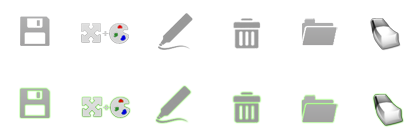
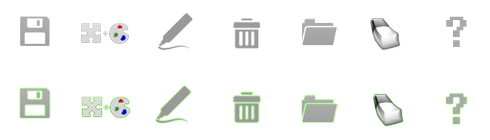
ajout bouton help
git-svn-id: https://dev.isen.fr/svn/cir2/2011-2012/project/group12@203 d59c32fe-f752-4fa7-acd5-9dba6884753f

diff --git a/main.html b/main.html
@@ -61,9 +61,10 @@
 					<div class="button colorChooser red" id="red"> </div>
 					<div class="button colorChooser green" id="green"> </div>
 					<div class="button colorChooser blue" id="blue"> </div>
+					<div class="button toolChooser help" id="help">Help</div>
 				</div>	
 			</div>
-			<div id="main-container-tests" class="hidden">lolnd,ednednzrzjkrjeeed,ednednzrzjkrjeeed,ednednzrzjkrjeeed,ednednzrzjkrjeeed,ednednzrzjkrjeeed,ednednzrzjkrjeeed,ednednzrzjkrjeeed,ednednzrzjkrjeee</div>
+			<div id="main-container-tests" class="hidden"></div>
 
 			<div id="save-form" class="modal-dialog" title="Save a New Graph">
 				<font class="validateTips">If the graph with entered name already exist, there will be replaced by the new Graph.</font>
@@ -77,6 +78,7 @@
 			</div>
 
 			<div id="load-form" class="modal-dialog" title="Load a Graph"></div>
+			<div id="help-modal" class="modal-dialog" title="Help - How to use HackenBush ?"></div>
 		</div>
 	</div>
 	<div id="main-bottom">
@@ -138,7 +140,7 @@
 	<script type ="text/javascript" src ="./scripts/javascript/interface/controller/listenToEditionField.js"></script>
 
 	<script type ="text/javascript" src ="./scripts/javascript/interface/controller/formChecks.js"></script>
-	<script type ="text/javascript" src ="./scripts/javascript/interface/controller/listenToModalDialog.js"></script>
+	<script type ="text/javascript" src ="./scripts/javascript/interface/view/modalDialog.js"></script>
 
 </body>
 </html>

diff --git a/css/button.css b/css/button.css
@@ -5,16 +5,19 @@
     text-align: center;
 }
 
-.options {
+.options , .help{
     position: absolute;
     top: 631px;
+    z-index: 1;
+}
+
+.options {
     left: 68px;
     line-height: 10px;
     width: 150px;
     height: 92px;
     margin: 0px;
     padding: 5px 0px 0px 5px;
-    z-index: 1;
     float: left;
     clear: none;
     text-align: left;
@@ -33,7 +36,7 @@
     line-height: 107px;
 }
 
-.options, .button.toolChooser, .locked {
+.options, .help, .button.toolChooser, .locked {
     background-color: #f0f1f4;
 }
 
@@ -49,7 +52,7 @@
     color : #d3bebe;
 }
 
-.button.toolChooser, #main-left .locked {
+.button.toolChooser, #main-left .locked, .help {
     background-image: url(../ressources/images/toolChooser.png);
 }
 
@@ -99,6 +102,14 @@
 
 .no-lock #erase:hover {
     background-position:-350px 56px;
+}
+
+#help {
+    background-position:-422px -7px;
+}
+
+#help:hover {
+    background-position:-422px 58px;
 }
 
 .button-bottom, .selected {

diff --git a/scripts/javascript/interface/view/modalDialog.js b/scripts/javascript/interface/view/modalDialog.js
@@ -3,8 +3,7 @@
 	$( "#dialog:ui-dialog" ).dialog( "destroy" );
 	
 	var name = $( "#name" ),
-		allFields = $( [] ).add( name ),
-		tips = $( ".validateTips" );
+		allFields = $( [] ).add( name );
 	
 	$('#save-form').dialog({
 		autoOpen: false,
@@ -41,6 +40,21 @@
 		autoOpen: false,
 		height: 500,
 		width: 800,
+		modal: true,
+		buttons: {
+			Cancel: function() {
+				$( this ).dialog( "close" );
+			}
+		},
+		close: function() {
+			allFields.val( "" ).removeClass( "ui-state-error" );
+		}
+	});
+
+	$('#help-modal').dialog({
+		autoOpen: false,
+		height: 500,
+		width: 600,
 		modal: true,
 		buttons: {
 			Cancel: function() {

diff --git a/scripts/javascript/interface/controller/listenToTools.js b/scripts/javascript/interface/controller/listenToTools.js
@@ -27,6 +27,11 @@
                 loadForm.dialog( "open" );
                 loadForm.load("./scripts/php/view/loadGame.php");
             }
+            if(toolSelected === "help") {
+                var helpModal = $('#help-modal');
+                helpModal.dialog( "open" );
+                helpModal.load("./views/help.html");
+            }
             else controller.tool = toolSelected;
         });
         

diff --git a/scripts/javascript/interface/controller/formChecks.js b/scripts/javascript/interface/controller/formChecks.js
@@ -1,4 +1,5 @@
 function updateTips( t ) {
+	var tips = $( ".validateTips" );
 	tips
 		.text( t )
 		.addClass( "ui-state-highlight" );

diff --git a/views/help.html b/views/help.html
@@ -1,0 +1,2 @@
+<p>Draw sert à ...</p>
+<p>Edit sert à ...</p>

diff --git a/scripts/php/modele/hackenbushGame.php b/scripts/php/modele/hackenbushGame.php
@@ -49,8 +49,8 @@ class HackenBush {
    */
   //public function saveGame($name, $data) {
   public function saveGame($name, $data, $imageData) {
-    $savedGames = fopen("../../../ressources/savedGames/".$name.".json", "w+");
-    $savedGamesImg = fopen("../../../ressources/savedGames/".$name.".txt", "w+");
+    $savedGames = fopen("../../../ressources/savedGames/".$name.".json", "wb");
+    $savedGamesImg = fopen("../../../ressources/savedGames/".$name.".txt", "wb");
 	fwrite($savedGames, $data);
 	fwrite($savedGamesImg, $imageData);
 	fclose($savedGames);
